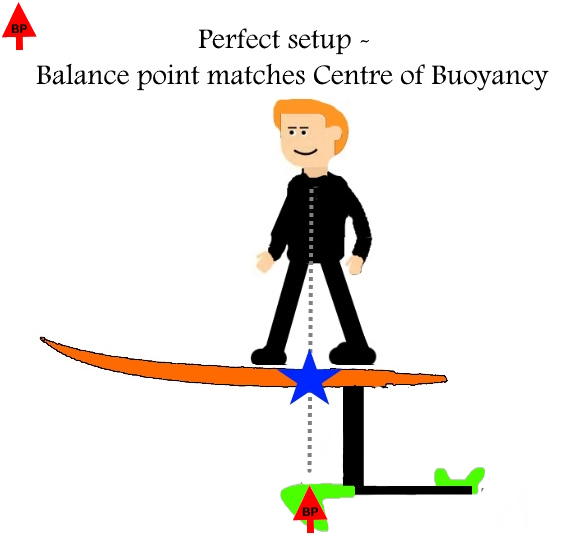
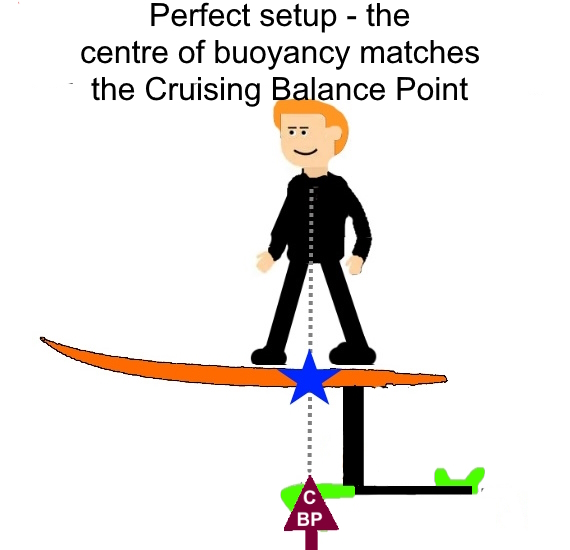
p

Changed region(s): [[0.0596, 0.0, 0.9544, 0.2164], [0.507, 0.8655, 0.5965, 1.0], [0.0, 0.0, 0.0596, 0.0927]]

diff --git a/choosingafoil.html b/choosingafoil.html
@@ -59,7 +59,7 @@
                     <li>Better for beginners</li>
                 </ul>
                 <ul>Smaller
-                    <li>Faster top speeds</li>
+                    <li>Faster top speeds, and more control at high speed</li>
                     <li>Better turning</li>
                 </ul>
                 </div>
@@ -93,36 +93,43 @@
 
         <p>What foil or foils you choose is going to be based on:</p>
         <ol>
-            <li>Your activity</li>
+            
             <li>Your ability level</li>
+            <li>Your activity</li>
             <li>Power available - wind strength, wave steepness etc</li>
             <li>Waves/Swell - the type of waves and swell you are riding</li>
         </ol>
 
-        <h3>Flat water - winging/windfoil</h3>
+        
 
-        <h4>Beginners</h4>
+        <h3>Beginners</h3>
         <p>Beginners will want an easy to use, easy to lift foil. So big, thick and low to mid Aspect. More confident beginners may look to go more toward the thinner mid-Aspect foils, that they can keep and use as a light wind foil when they are more advanced.</p>
+        <p>A rough guide would be 1500cm<sup>2</sup> for very lightweight, up to 2000cm<sup>2</sup>+ for heavyweights (90kg)+</p>
 
-        <h4>Intermediates</h4>
+
+        <h3>Intermediates</h3>
         <p>Once learning to gybe and starting to ride swell, a medium sized Mid Aspect foil will suit these riders</p>
+        <p>Stepping down to 1200-1500cm<sup>2</sup> will allow faster riding, whilst maintaining decent low end</p>
 
-        <h4>Advanced - freestyle</h4>
-        <p></p>
+        <h3>Advanced</h3>
+        <p>Advanced riders will start to look for foils that suit their dicipline and likely conditions</p>
 
-        <h4>Advanced - racing/speed</h4>
+        <h4>Racing/speed</h4>
         <p>Here, the smallest thin high Aspect foil will get the best speeds. The problem will be getting up onto the foil. This may require a bigger modern DW SUPfoil type shape.</p>
 
-        <h3>Flat water pumping</h3>
-
-        <p>For this, we need the least drag per unit of lift. This means a High Aspect foil.</p>
-        <p>Slower is better for us, because there is drag from the rider going through the air that scales as the square of speed. This means a big foil for lowest drag.</p>
+        <h4>Freestyle - jumping</h4>
+        <p>For this we want good speed and pop</p>
         
-        <h3>Low Power</h3>
+        <h4>Light Wind</h4>
 
         <p>To get foiling in a low power scenario (e.g. light wind winging, shallow swell), we need lift at lower speeds</p>
-        <p>From the lift equation with low speed, we need to increase S (size) and cL (Lift coefficient)</p>
-
+        <p>From the lift equation with low speed, we need to increase S (size) and/or cL (Lift coefficient)</p>
+        <p>There are a number of solutions to this, all with their drawbacks:</p>
+        <ol>
+            <li>Mid Aspect, Large area - downside is slow speeds</li>
+            <li>High Aspect, Large area - Good for lulls, downside is difficulty turning, slow speeds</li>
+            <li>Thick High Aspect, Small/Medium area - this is a good solution (my favourite). You can make the foils less than 1metre wide for reasonable turning. Top speeds will be limited by thickness.</li>
+        </ol>
 
 
         <h3>Swell and Waves</h3>
@@ -139,11 +146,12 @@
         <p>When downwinding, you'll be using swell that is soft, so low drag is important</p>
         <p>So ideally, we need a foil that:</p>
         <ul>
-            <li>Has low drag to cope with flat areas - high Aspect. Thinner will help reduce drag at higher speeds (groundswell)</li>
-            <li>If groundswell, a smaller foil to keep up with high speeds</li>
+            <li>Has low drag to cope with flat areas - high Aspect.</li>
+            <li>Thinner will help reduce drag at higher speeds (groundswell)</li>
+            <li>Thicker or Bigger will allow lower speeds (windswell)</li>
         </ul>
 
-        <p>There is an issue with using small foils - getting them onto the foil. Modern SUPfoil board shapes are overcoming this by creating board bottoms that are easier to get foiling, and allow smaller foils to be used. Wingfoiling will be ok provided there is sufficient wind.</p>
+        <p>There is an issue with using small foils - getting them onto the foil. Modern Downwind SUPfoil board shapes are overcoming this by creating board bottoms that are easier to get foiling, and allow smaller foils to be used. Wingfoiling will be ok provided there is sufficient wind.</p>
         <p>We're not that bothered with really hard turning, so don't need to worry so much about big wingspans. High Aspect Foils are perfect for this.</p>
 
 
@@ -161,17 +169,23 @@
         <ul>
             <li>Has a fairly low stall/min-drag speed, if waves are smaller</li>
             <li>Turns well</li>
-            <li>Extra drag helps reduce acceleration and high speed control issues. This can come from reduced Aspect Ratio, and also thicness.</li>
-            <li>Smaller foils reduce high speed control issues</li>
+            <li>Extra drag helps reduce acceleration and high speed control issues. This can come from reduced Aspect Ratio, and also thickness.</li>
+            <li>Smaller foils reduce high speed control issues in bigger waves</li>
         </ul>
 
         <p>Again, smaller foils mean better control, and better turning, but we need to be able to get them going in the first place. Light winds and sizeable waves give a real conundrum as to whether to prioritse ease of foiling versus ease of riding.</p>
         <p>It's my opinion that Mid Aspect foils are better for breaking waves than High Aspect. </p>
-        <h4></h4>
+        
+        <h4>Mixed breaking wave and swell</h4>
+
+        <p>A typical </p>
 
         
 
-        
+        <h4>Flat water pumping</h4>
+
+        <p>For this, we need the least drag per unit of lift. This means a High Aspect foil.</p>
+        <p>Slower is better for us, because there is drag from the rider going through the air that scales as the square of speed. This means a big foil for lowest drag and best endurance.</p>
 
 
 

diff --git a/foilshapessizes.html b/foilshapessizes.html
@@ -55,12 +55,12 @@
 
         <div class="sections1">
         <div class = "diagrams">
-          <img src="lift_formula.jpg" height="120px" width = "240px"/>
+          <img src="lift_formula.jpg" height="80px" width = "200px"/>
        </div>
 
        <ul>
         <li>Lift increases as the square of speed</li>
-        <li>Lift increases linearly with foil size</li>
+        <li>Lift increases with foil size</li>
         <li>Lift increases with increasing Lift Coefficient (related to Angle of Attack)</li>
         
       </ul>
@@ -150,7 +150,7 @@
 
         <div class = "diagrams">
           <img src="profile_thickness.jpg" height="180px" width = "300px"/>
-          <p>Coefficient of Lift for thin and thick foils</p>
+          <p><i>Lift Coefficient</i> for thin and thick foils</p>
         </div>
         
       
@@ -158,10 +158,10 @@
       <p>From this we can see that:</p>
       <ul>
         <li>A thinner foil will produce less lift than a thicker foil, especially at low Angles of Attack</li>
-        <li>A thinner foil will have a bigger speed range, because we can change the Lift Coefficient more</li>
+        <li>A thinner foil will have a bigger speed range, because we can change the <i>Lift Coefficient</i> more</li>
         <li>A thinner foil will require more precise control of Angle of Attack. This makes it feel "twitchy".</li>
         <li>A thicker foil is easier to control for beginners, as lift changes less with Angle of Attack, and the stall is much more gentle</li>
-        <li>A thicker foil will have a smaller speed range, because the rider is limited by how much we can change the Lift Coefficient</li>
+        <li>A thicker foil will have a smaller speed range, because the rider is limited by how much we can change the <i>Lift Coefficient</i></li>
       </ul>
 
       <h3>Aspect Ratio</h3>
@@ -219,7 +219,7 @@
 
       <h4>Induced drag</h4>
       <p>This is the drag caused by creating lift. It is higher at high Angles of Attack (low speed)</p>
-      <p>We can reduce induced drag by increasing Aspect Ratio. Induced drag scales as 1/AR, so a foil with an Aspect Ratio of 4 will have twice as much induced drag as a foil with an Aspect Ratio of 8</p>
+      <p>We can reduce induced drag by increasing Aspect Ratio. Induced drag reduces with increasing Aspect Ratio, so a foil with an Aspect Ratio of 4 will have twice as much induced drag as a foil with an Aspect Ratio of 8</p>
       <p>A few years ago, foils were mainly low-Aspect, with Aspect Ratios between 2 and 3. Now, most foils have Aspect Ratios between about 4 and 12</p>
 
       <h4>Total drag</h4>
@@ -257,6 +257,24 @@
     <p>These are even easier to use, so good for beginners. Expect less glide, less speed, but easy to control and a gentle predictable stall. They are generally thick to help beginners.</p>
 
     
+    <h3>Maneuverability</h3>
+
+    <p>This ability to turn the foil quickly</p>
+    <h4>Wingspan</h4>
+    <p>Bigger wingspans are harder to turn - one of the downsides of large High Aspect Foil</p>
+
+    <h4>Anhedral</h4>
+    <div class = "diagrams">
+      <img src="Anhedral.jpg" height="100px" width = "200px"/>
+    </div>
+    <p>There is another property that affects turning - anhedral. The more anhedral, the less roll stability. This makes it easier to roll, so easier to turn.</p>
+
+    <h4>Wingtips</h4>
+    <p>These reduce the maneuverablility of the foil, making it more stable</p>
+    <p>They can also slightly reduce Induced Drag (which is why you see big ones on commercial aircraft) </p>
+    <p>They have fallen out of favour, as they can be difficult to control if the wingtip breaches</p>
+
+
 </body>
 
 </html>

diff --git a/foilsetup.html b/foilsetup.html
@@ -88,6 +88,11 @@
 
         <p>We've also seen that the balance point changes with speed. Ideally, we want to set our kit up so the balance point at cruising speed is where we want to stand.</p>
         <p>We'll call this the <i>Cruising Balance Point</i> </p>
+
+        <div class = "diagrams">
+          <img src = "Cruising_Balance_point.jpg" width="250px" height=200px" />
+        </div>
+
         <p>Good beginner setups should ensure the <i>Balance Point</i> doesn't change that much with speed, to make things easier.</p>
 
         <h3>Adjusting the Cruising Balance Point</h3>
@@ -184,7 +189,19 @@
 
       <h4>Mixing Brands</h4>
       <p>Different brands have different foil geometries. Some have the mast right next to the front foil, others have it further back</p>
-      <p>This can mean certain foil and board brands are difficult to use together. It's worth checking first before doing this.</p>
+      <p>Consequently, their boards have their foil boxes in different positions. Some are quite far forward, others quite far back.</p>
+      <p>This can mean certain foil and board brands are difficult to use together. It's worth checking first before mixing brands.</p>
+
+      <p>Brands with forward boxes:</p>
+      <ul>
+        <li>Armstrong</li>
+        <li>Naish 2020 gear</li>
+      </ul>
+
+      <p>Brands with rear boxes:</p>
+      <ul>
+        <li>Fanatic, especially 2021 gear</li>
+      </ul>
 
       <p>Next page: <a href="foilsetupadvanced.html" style="display:block">Foil Setup (Advanced)</a></p>
 
